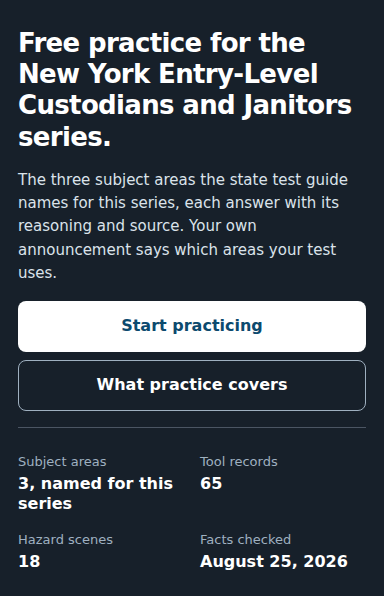
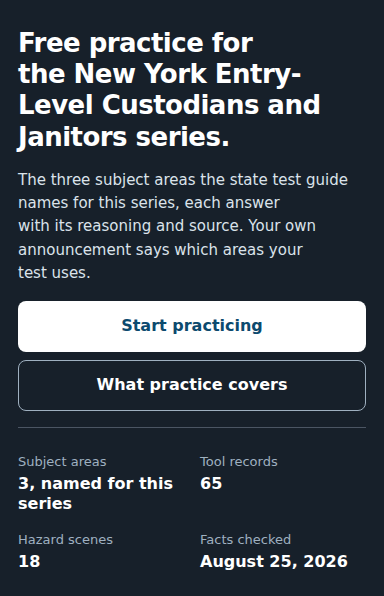
Restore Home prototype typography and record rendered font evidence

Changed region(s): [[0.0312, 0.0302, 0.9375, 0.2718], [0.0312, 0.3322, 0.875, 0.453], [0.0625, 0.453, 0.2188, 0.4832]]

diff --git a/apps/site/src/design-system.css b/apps/site/src/design-system.css
@@ -918,7 +918,8 @@
 }
 
 @layer overrides {
-  .home-hero h1 { font-size: 2.5rem; }
+  .home-hero h1 { font-size: clamp(2rem, 1.5rem + 1.8vw, 2.875rem); text-wrap: pretty; }
+  .home-hero .page-header-copy > p { text-wrap: pretty; }
   .home-hero .page-header-copy { max-inline-size: 48rem; }
   .home-trust-list { border: 1px solid var(--color-border); border-radius: 0.5rem; padding: 0.25rem 1.5rem; background: var(--color-surface); }
   .home-trust-list > div:first-child { border-block-start: 0; }
@@ -936,7 +937,7 @@
   .home-cycle-evidence summary::before { content: '+ '; margin-inline-end: 0.5rem; }
   .home-cycle-evidence[open] summary::before { content: '− '; }
   @media (max-width: 47.99rem) {
-    .home-hero h1 { font-size: 1.625rem; }
+    .home-hero h1 { font-size: 1.625rem; letter-spacing: -0.02em; }
     .home-cycle-grid { grid-template-columns: minmax(0, 1fr); }
     .home-cycle-dates { display: none; }
     .home-cycle-grid .notice { padding: 0.875rem 1rem; }

diff --git a/design-review/2026-09-07/IMPLEMENTATION-STATUS.md b/design-review/2026-09-07/IMPLEMENTATION-STATUS.md
@@ -5,7 +5,7 @@ The active task is the complete handoff in `/mnt/models/dev/nycustodianexam/IMPL
 | Area | Current evidence | Remaining work |
 |---|---|---|
 | Shared navigation | `acd7a88`, 1248/384 captures, reflow/keyboard/no-JS/bottom-bar tests | 48 design-handoff checks now pass across Chromium/Firefox/WebKit; repeat only if later shell changes warrant it |
-| Home | First-slice comparison gallery and notes | Full-page and six-section 1248/384 comparison captured in home-final-audit; compact coverage hierarchy and subject links corrected; compact trust reduced to the reference’s three rows with current home-compact-audit evidence and three-browser reflow/axe passes; source/footer density and typography remain to reconcile (see IMPLEMENTATION-REVIEW.md) |
+| Home | First-slice comparison gallery and notes | Full-page and six-section 1248/384 comparison captured in home-final-audit; compact coverage hierarchy and subject links corrected; compact trust reduced to the reference’s three rows with current home-compact-audit evidence and three-browser reflow/axe passes; prototype heading sizing/wrapping restored with actual-font evidence; source/footer density and remaining platform line-break differences documented in IMPLEMENTATION-REVIEW.md |
 | Practice hub and Review | First-slice real-save/failure captures, durable review regression tests | Final visual audit and mixed-inventory wording as builder is added |
 | Simulation setup | SETUP-ATLAS-REVIEW.md, effective lengths/timing/format; no exam prerequisite | Final integrated capture/checks |
 | Practice/Hazard builder | PRACTICE-BUILDER-REVIEW.md and HAZARD-BUILDER-REVIEW.md: effective builders, custom navigation and exact saved-history receipts | Hazard page composition updated with desktop/compact/no-JS evidence; Practice composition/direct-link focus updated with desktop/compact captures and three-browser checks; Practice/Hazard summaries reconciled with desktop/compact evidence and 15 targeted browser passes; final integrated comparison remains; CROSS-BROWSER-WORKFLOWS.md records 27 three-browser builder/Review passes, including real offline save/feedback; WebKit emulation issue isolated with a minimal reproduction; custom import passes in Chromium |

diff --git a/design-review/2026-09-07/IMPLEMENTATION-REVIEW.md b/design-review/2026-09-07/IMPLEMENTATION-REVIEW.md
@@ -105,3 +105,26 @@ Root build/artifact verification passes. Existing Home mobile reflow/navigation
 and serious/critical axe checks pass in Chromium, Firefox, and WebKit (3 tests).
 The native-font wrapping, fuller footer, and additional source disclosures still
 differ from the supplied compact reference; full fidelity remains unproven.
+
+## Home typography verification
+
+Compared the actual stylesheet with Home.dc.html rather than inferring every
+wrapping difference from screenshots. A later override had replaced the desktop
+prototype's responsive heading size with a fixed 40px. Restored
+`clamp(2rem, 1.5rem + 1.8vw, 2.875rem)`, the prototype's `text-wrap: pretty`
+for the heading/intro, and compact heading letter spacing of -0.02em.
+
+The refreshed `home-compact-audit/manifest.json` records computed typography and
+Chromium's actual platform font: DejaVu Sans Bold, not a downloaded custom font.
+At 1248px, heading size/line height/spacing are 46px/52.9px/-1.15px; at 384px
+they are 26px/31.2px/-0.52px, matching the prototype declarations at these widths.
+The native font stack is identical in app and prototype. The font used to produce
+the supplied PNGs is not established by those PNGs. Inspected both updated hero
+crops: readable, complete headings and actions, without overflow. Remaining line
+break differences are retained as a platform-dependent visual difference, not
+compensated with a smaller-than-specified type size.
+
+Root build/artifact checks and updated capture assertions passed. The capture
+script now asserts heading sizes and records typography for reproducibility.
+Earlier three-browser compact reflow checks preceded this typography correction;
+the current capture verification is Chromium only.
